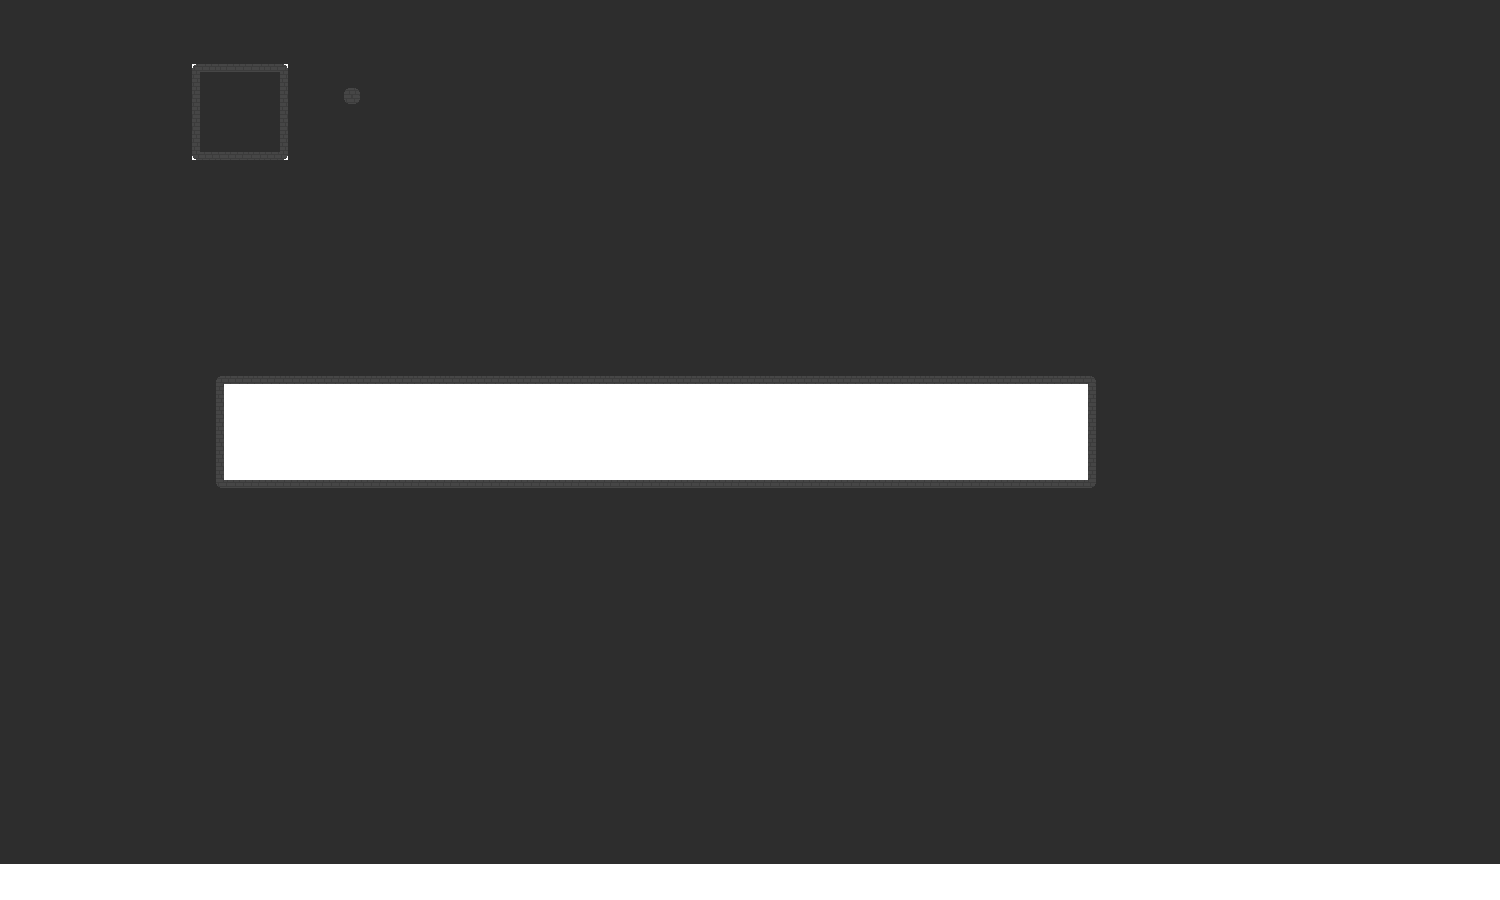
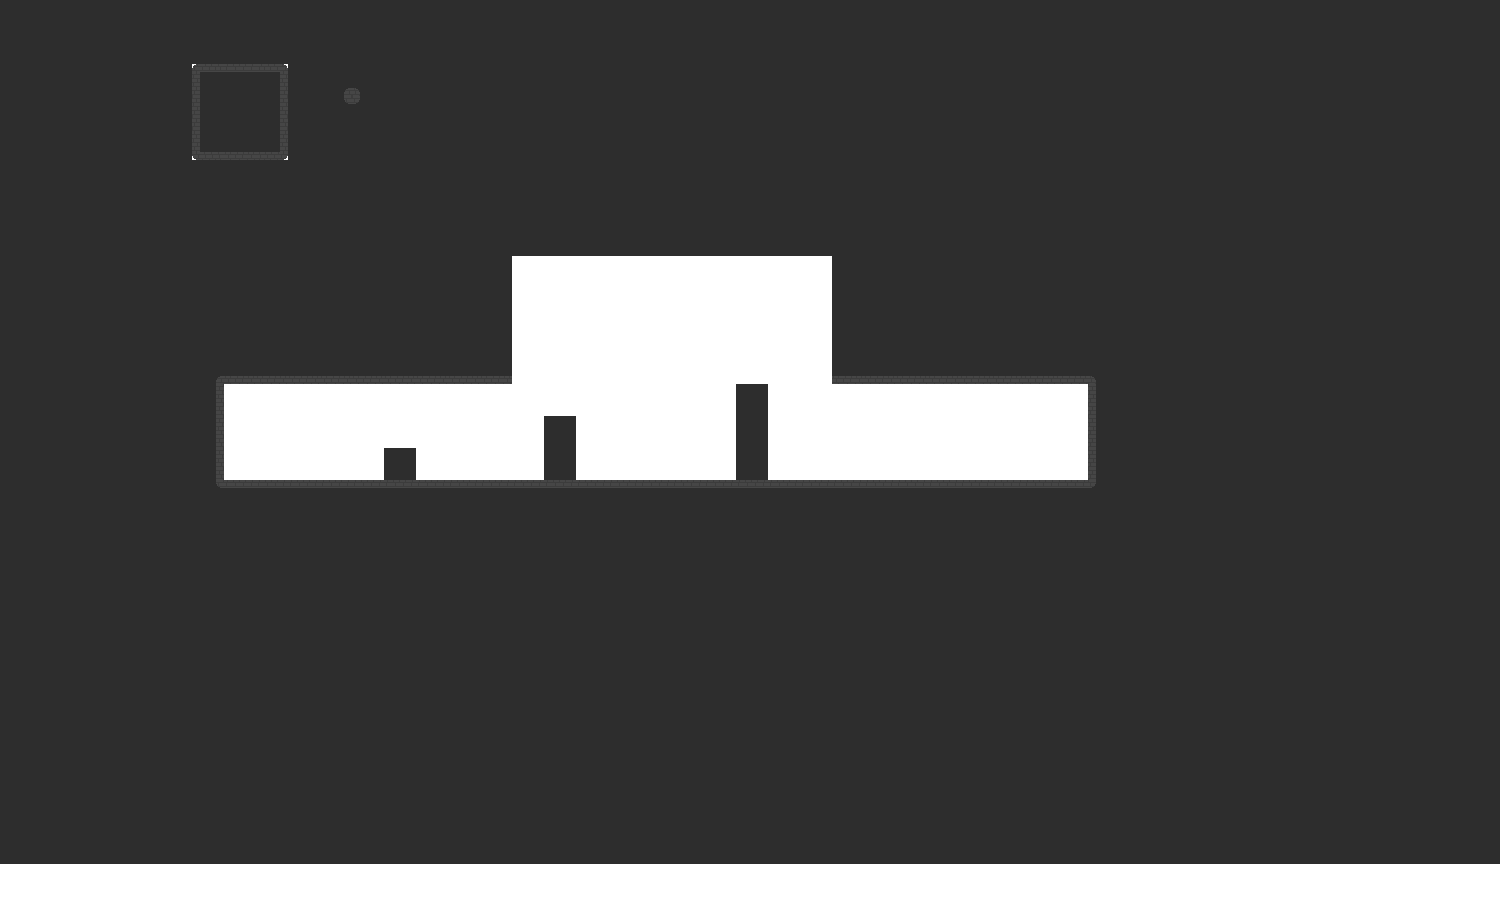
Started adding spike fixed bug with door not closing

Changed region(s): [[0.3373, 0.28, 0.552, 0.5289], [0.3373, 0.4667, 0.3987, 0.5289], [0.2453, 0.4978, 0.276, 0.5289]]

diff --git a/src/LevelLayout.java b/src/LevelLayout.java
@@ -18,12 +18,13 @@ public class LevelLayout {
     private String[][] levelData;
     private Engine engine;
     private ArrayList<Player> availableCharacters;
-    private boolean levelDone, swapped, resetting;
+    private boolean levelDone, swapped, resetting, paused;
     private int characterInControl;
     private ArrayList<Box> boxes;
     private HashMap<Opener, Door[]> openersAndDoors;
     private ArrayList<Opener> openers;
     private ArrayList<Door> doors;
+    private ArrayList<Spike> spikes;
 
     //Have like a list of all the characters that the player can control and when a character reaches the portal remove them from the list
 
@@ -35,10 +36,12 @@ public class LevelLayout {
         levelDone = false;
         characterInControl = 0;
         swapped = false;
+        paused = false;
         boxes = new ArrayList<Box>();
         openersAndDoors = new HashMap<Opener, Door[]>();
         openers = new ArrayList<Opener>();
         doors = new ArrayList<Door>();
+        spikes = new ArrayList<Spike>();
         combined = new BufferedImage(1500, 900, BufferedImage.TYPE_INT_ARGB);
         setTileSet();
         setWalls();
@@ -72,7 +75,7 @@ public class LevelLayout {
         Graphics g = combined.getGraphics();
         walls = new ArrayList<Rectangle>();
         //make sure to put the things that won't be counted as walls here
-        String nonWallTiles = "pzekb/[|n";
+        String nonWallTiles = "pzekb/[|n^";
         for (int r = 0; r < 27; r++) {
             for (int c = 0; c < 47; c++) {
                 if (!nonWallTiles.contains(levelData[r][c]) && !levelData[r][c].contains("[") && !levelData[r][c].contains("/") && !levelData[r][c].contains("|")) {
@@ -138,6 +141,12 @@ public class LevelLayout {
                     case "n":
                         engine.newNecromancer(c * 32 + 14, r * 32 + 20);
                         availableCharacters.add(engine.getNecromancer());
+                        break;
+                    case "^":
+                        spikes.add(new Spike (c * 32, r * 32 + 28));
+                        g.setColor(Color.PINK);
+                        g.drawRect(c * 32, r * 32 + 28, 32, 5);
+                        g.setColor(Color.BLACK);
                         break;
                 }
                 if (levelData[r][c].contains("/")) {
@@ -304,6 +313,8 @@ public class LevelLayout {
         swapped = false;
     }
 
+
+
     public ArrayList<Rectangle> getWalls() {
         return walls;
     }
@@ -322,5 +333,17 @@ public class LevelLayout {
 
     public ArrayList<Door> getDoors() {
         return doors;
+    }
+
+    public ArrayList<Spike> getSpikes() {
+        return spikes;
+    }
+
+    public boolean isPaused() {
+        return paused;
+    }
+
+    public void setPaused(boolean paused) {
+        this.paused = paused;
     }
 }

diff --git a/src/Door.java b/src/Door.java
@@ -82,15 +82,22 @@ public class Door {
         }
         else {
             if (wasOpen) {
-                if (touchingPlayer(engine.getLevelLayout().getAvailableCharacters()) || touchingBox(engine.getLevelLayout().getBoxes())) {
-                    collisionBox.setBounds(collisionBox.x, collisionBox.y, 32, 32);
-                    wasOpen = false;
+                if (!touchingPlayer(engine.getLevelLayout().getAvailableCharacters()) && !touchingBox(engine.getLevelLayout().getBoxes())) {
+                    if (engine.getNecromancer() != null && engine.getNecromancer().getSummon() != null) {
+                        if (!touchingSummon(engine.getNecromancer().getSummon())) {
+                            collisionBox.setBounds(collisionBox.x, collisionBox.y, 32, 32);
+                            wasOpen = false;
+                        }
+                    }
+                    else {
+                        collisionBox.setBounds(collisionBox.x, collisionBox.y, 32, 32);
+                        wasOpen = false;
+                    }
                 }
-                //This if statement is just for the necromancer's skeleton
-                else if (engine.getNecromancer() != null && engine.getNecromancer().getSummon() != null && touchingSummon(engine.getNecromancer().getSummon())) {
-                    collisionBox.setBounds(collisionBox.x, collisionBox.y, 32, 32);
-                    wasOpen = false;
+                else {
+                    System.out.println("Problem 1");
                 }
+
             }
             else {
                 collisionBox.setBounds(collisionBox.x, collisionBox.y, 32, 32);

diff --git a/src/Player.java b/src/Player.java
@@ -15,7 +15,7 @@ public class Player implements KeyListener{
     private Engine engine;
     private int x, y, frameNumber, framesPassed, velocity, velocityTimer, timeInAir;
     final private int SCALE = 2;
-    private boolean up, down, left, right, facingRight, facingLeft, inAir, available, active;
+    private boolean up, down, left, right, facingRight, facingLeft, inAir, available, active, dead;
     private Rectangle collisionBox, onCollisionBox;
     //3 child classes that will be the mage knight and ?
     public Player(Engine engine) {
@@ -52,6 +52,7 @@ public class Player implements KeyListener{
         this.y = y;
         frameNumber = 0;
         framesPassed = 0;
+        dead = false;
         up = false;
         down = false;
         left = false;
@@ -83,6 +84,8 @@ public class Player implements KeyListener{
         framesPassed++;
         //Physics
         velocityTimer++;
+
+        touchingSpike(engine.getLevelLayout().getSpikes());
         if (reachEnd(engine.getPortal().getCollision())) {
             available = false;
             engine.getLevelLayout().checkLevelDone();
@@ -444,6 +447,16 @@ public class Player implements KeyListener{
         }
 
         return false;
+    }
+
+
+    public void touchingSpike(ArrayList<Spike> spikes) {
+        for (Spike spike: spikes) {
+            if (spike.getCollisionBox().intersects(collisionBox)) {
+                dead = true;
+                break;
+            }
+        }
     }
     public boolean reachEnd(Rectangle portal) {
         if (portal.contains(collisionBox.getCenterX(), collisionBox.getCenterY())) {

diff --git a/src/LevelSelectionPanel.java b/src/LevelSelectionPanel.java
@@ -27,6 +27,7 @@ public class LevelSelectionPanel extends JPanel implements MouseListener {
         levels[0][3] = new Rectangle(350, 150, 50, 50);
         levels[0][4] = new Rectangle(450, 150, 50, 50);
         levels[1][0] = new Rectangle(50, 250, 50, 50);
+        levels[1][1] = new Rectangle(150, 250, 50, 50);
     }
     public void update() {
         engine.getTransitions().update();

diff --git a/src/Spike.java b/src/Spike.java
@@ -1,0 +1,16 @@
+import java.awt.*;
+import java.awt.image.BufferedImage;
+
+public class Spike {
+
+    private Rectangle collisionBox;
+    private BufferedImage image;
+
+    public Spike (int x, int y) {
+        collisionBox = new Rectangle(x, y, 32, 5);
+    }
+
+    public Rectangle getCollisionBox() {
+        return collisionBox;
+    }
+}

diff --git a/src/PlayPanel.java b/src/PlayPanel.java
@@ -23,6 +23,7 @@ public class PlayPanel extends JPanel implements MouseListener {
     }
 
     public void update() {
+
         engine.getLevelLayout().update();
         engine.getTransitions().update();
 //        System.out.println("ZXC");

diff --git a/src/Engine.java b/src/Engine.java
@@ -30,6 +30,7 @@ public class Engine {
     }
 
     public void newLevelLayout(int level) {
+        levelLayout = null;
         levelLayout = new LevelLayout(this, "level" + level);
     }
 
